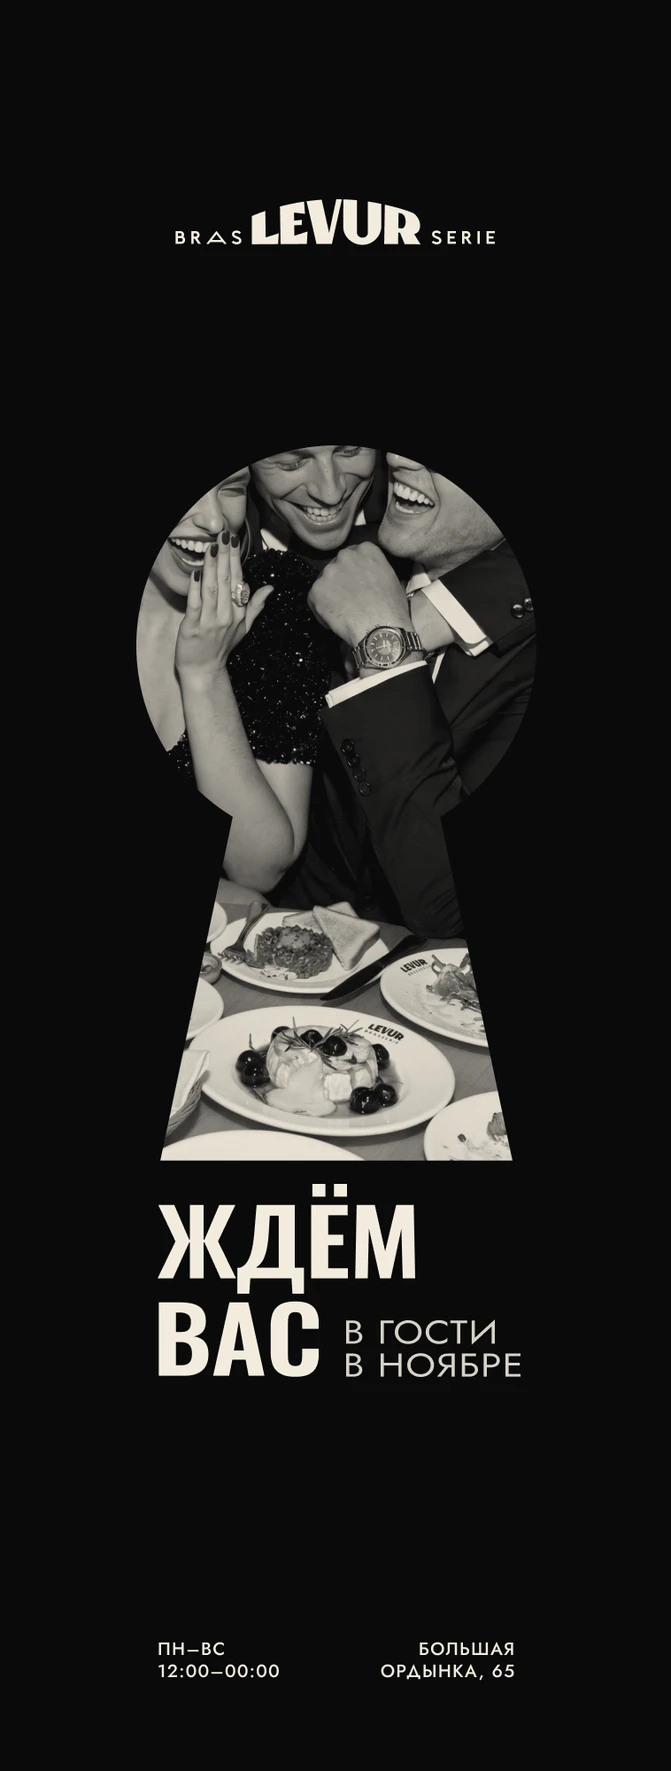
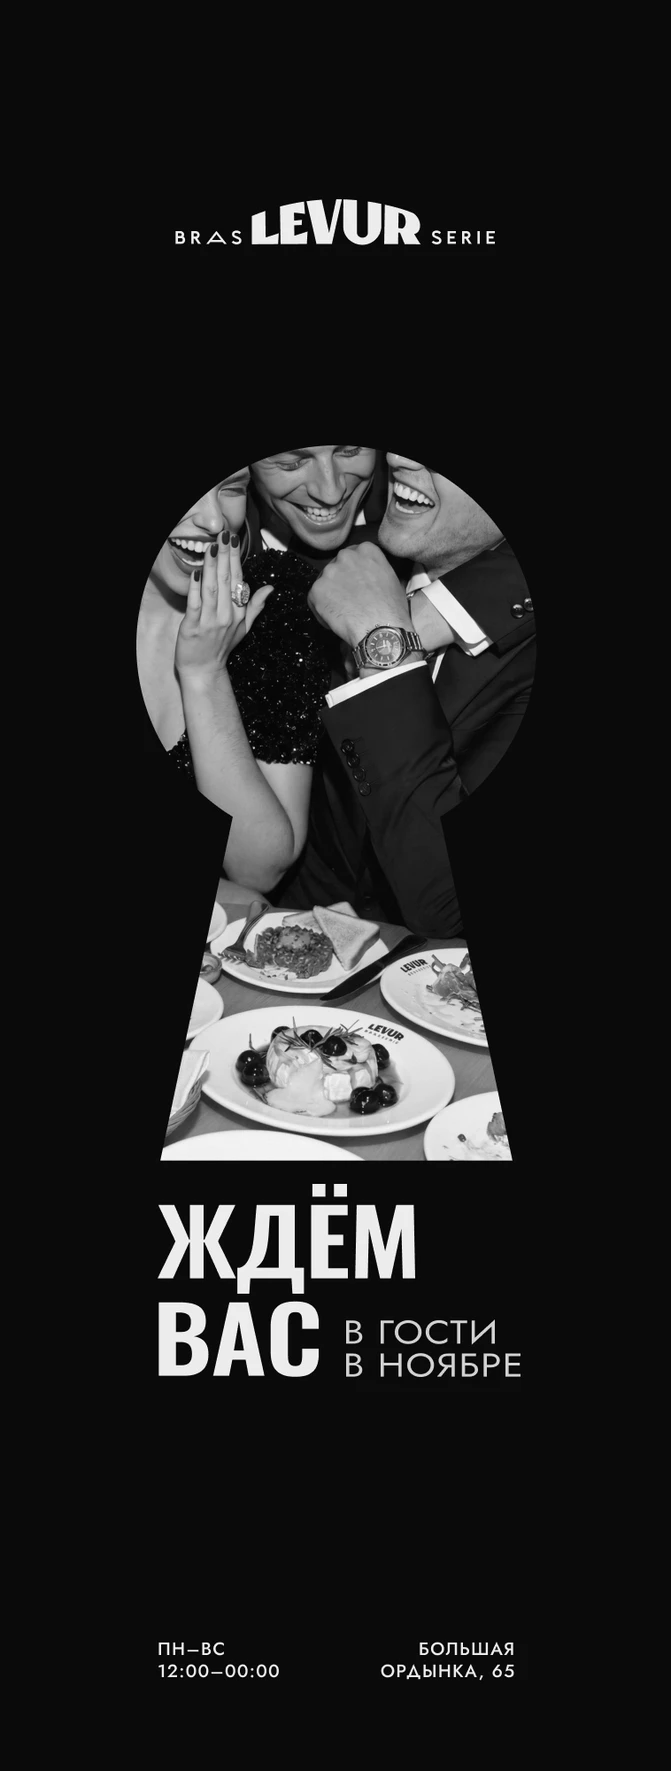
Концепция 2: гротеск первым с ЧБ фото и цветами фона, светлая антиква — один из цветов, ЧБ скважина без молочного тона

diff --git a/index.html b/index.html
@@ -171,14 +171,14 @@
           </div>
           <div class="shade"></div>
         </div></div>
-        <figcaption>Вариант 1<span class="opts" role="group" aria-label="Цвет фото"><button type="button" data-img="k1" data-src="door-3d/sticker-keyhole.webp?v=20261028i" aria-pressed="true">Цвет</button><button type="button" data-img="k1" data-src="door-3d/sticker-keyhole-bw.webp?v=20261028l" aria-pressed="false">ЧБ</button></span></figcaption>
+        <figcaption>Вариант 1<span class="opts" role="group" aria-label="Цвет фото"><button type="button" data-img="k1" data-src="door-3d/sticker-keyhole.webp?v=20261028i" aria-pressed="true">Цвет</button><button type="button" data-img="k1" data-src="door-3d/sticker-keyhole-bw.webp?v=20261028m" aria-pressed="false">ЧБ</button></span></figcaption>
       </figure>
       <figure>
         <div class="frame"><div class="view" role="button" tabindex="0" aria-label="Открыть на весь экран">
           <div class="plate">
             <div class="ly" data-depth="0.35">
               <img class="leaf" src="door-3d/door.webp" alt="">
-              <img class="sticker" id="k2" src="door-3d/sticker-poster-serif-dark.webp?v=20261028h" alt="Постер «Ждём вас» с фото в форме замочной скважины на стекле двери LEVUR">
+              <img class="sticker" id="k2" src="door-3d/sticker-poster-grotesk-light.webp?v=20261028m" alt="Постер «Ждём вас в гости в ноябре» с фото в форме замочной скважины на стекле двери LEVUR">
               <div class="sheen"></div>
             </div>
             <div class="ly" data-depth="1">
@@ -190,7 +190,7 @@
           </div>
           <div class="shade"></div>
         </div></div>
-        <figcaption>Вариант 2<span class="opts" role="group" aria-label="Вариант постера"><button type="button" id="k2dark" data-img="k2" data-src="door-3d/sticker-poster-serif-dark.webp?v=20261028h" aria-pressed="true">Антиква, чёрный</button><button type="button" data-img="k2" data-src="door-3d/sticker-poster-grotesk.webp?v=20261028g" aria-pressed="false">Гротеск</button><button type="button" data-img="k2" data-src="door-3d/sticker-poster-serif.webp?v=20261028e" aria-pressed="false">Антиква</button></span><span class="swatches" id="k2sw" role="group" aria-label="Цвет фона"><button type="button" class="swb" data-k2="black" data-src="door-3d/sticker-poster-serif-dark.webp?v=20261028h" aria-pressed="true" title="Чёрный" aria-label="Чёрный"><span style="background:#262728"></span></button><button type="button" class="swb" data-k2="green" data-src="door-3d/sticker-poster-serif-dark-green.webp?v=20261028j" aria-pressed="false" title="Оливковый" aria-label="Оливковый"><span style="background:#3b422b"></span></button><button type="button" class="swb" data-k2="wine" data-src="door-3d/sticker-poster-serif-dark-wine.webp?v=20261028j" aria-pressed="false" title="Винный" aria-label="Винный"><span style="background:#512e31"></span></button><span class="cname">Чёрный</span></span></figcaption>
+        <figcaption>Вариант 2<span class="opts" role="group" aria-label="Шрифт"><button type="button" data-k2font="grotesk" aria-pressed="true">Гротеск</button><button type="button" data-k2font="serif" aria-pressed="false">Антиква</button></span><span class="swatches" id="k2sw" role="group" aria-label="Цвет фона"><button type="button" class="swb" data-k2c="light" aria-pressed="true" title="Светлый" aria-label="Светлый"><span style="background:#eeeae2"></span></button><button type="button" class="swb" data-k2c="black" aria-pressed="false" title="Чёрный" aria-label="Чёрный"><span style="background:#262728"></span></button><button type="button" class="swb" data-k2c="green" aria-pressed="false" title="Оливковый" aria-label="Оливковый"><span style="background:#3b422b"></span></button><button type="button" class="swb" data-k2c="wine" aria-pressed="false" title="Винный" aria-label="Винный"><span style="background:#512e31"></span></button><span class="cname">Светлый</span></span></figcaption>
       </figure>
     </div>
   </section>
@@ -309,27 +309,33 @@
   colorBtns.forEach(b => b.addEventListener('click', () => { color[b.dataset.base] = b.dataset.c; paint(); }));
   logoBtns.forEach(b => b.addEventListener('click', () => { logo[b.dataset.logo] = !logo[b.dataset.logo]; paint(); }));
   // simple image swaps (Концепция 2)
-  for (const b of document.querySelectorAll('.opts button')) {
+  for (const b of document.querySelectorAll('.opts button[data-img]')) {
     new Image().src = b.dataset.src;
     b.addEventListener('click', () => {
       document.getElementById(b.dataset.img).src = b.dataset.src;
       b.parentNode.querySelectorAll('button').forEach(x => x.setAttribute('aria-pressed', String(x === b)));
     });
   }
-  // Концепция 2, вариант 2: colour of the dark antiqua poster; swatches show only while it is selected
-  const k2dark = document.getElementById('k2dark'), k2sw = document.getElementById('k2sw');
-  const k2names = { black: 'чёрный', green: 'оливковый', wine: 'винный' };
-  for (const b of k2sw.querySelectorAll('button')) {
-    new Image().src = b.dataset.src;
-    b.addEventListener('click', () => {
-      k2dark.dataset.src = b.dataset.src;
-      k2dark.textContent = 'Антиква, ' + k2names[b.dataset.k2];
-      k2sw.querySelectorAll('button').forEach(x => x.setAttribute('aria-pressed', String(x === b)));
-      k2sw.querySelector('.cname').textContent = b.title;
-      k2dark.click();
-    });
+  // Концепция 2, вариант 2: font (grotesk / antiqua) and background fill, each font keeps its own fill
+  const k2 = document.getElementById('k2'), k2sw = document.getElementById('k2sw');
+  const k2fontBtns = [...document.querySelectorAll('[data-k2font]')], k2colBtns = [...k2sw.querySelectorAll('[data-k2c]')];
+  const K2 = {
+    grotesk: { light: 'door-3d/sticker-poster-grotesk-light.webp?v=20261028m', black: 'door-3d/sticker-poster-grotesk-black.webp?v=20261028m',
+               green: 'door-3d/sticker-poster-grotesk-green.webp?v=20261028m', wine: 'door-3d/sticker-poster-grotesk-wine.webp?v=20261028m' },
+    serif: { light: 'door-3d/sticker-poster-serif.webp?v=20261028e', black: 'door-3d/sticker-poster-serif-dark.webp?v=20261028h',
+             green: 'door-3d/sticker-poster-serif-dark-green.webp?v=20261028j', wine: 'door-3d/sticker-poster-serif-dark-wine.webp?v=20261028j' },
+  };
+  const k2st = { font: 'grotesk', color: { grotesk: 'light', serif: 'black' } };
+  function k2paint() {
+    const c = k2st.color[k2st.font];
+    k2.src = K2[k2st.font][c];
+    k2fontBtns.forEach(x => x.setAttribute('aria-pressed', String(x.dataset.k2font === k2st.font)));
+    k2colBtns.forEach(x => x.setAttribute('aria-pressed', String(x.dataset.k2c === c)));
+    k2sw.querySelector('.cname').textContent = k2colBtns.find(x => x.dataset.k2c === c).title;
   }
-  k2dark.parentNode.querySelectorAll('button').forEach(b => b.addEventListener('click', () => { k2sw.hidden = b !== k2dark; }));
+  k2fontBtns.forEach(x => x.addEventListener('click', () => { k2st.font = x.dataset.k2font; k2paint(); }));
+  k2colBtns.forEach(x => x.addEventListener('click', () => { k2st.color[k2st.font] = x.dataset.k2c; k2paint(); }));
+  for (const f in K2) for (const c in K2[f]) new Image().src = K2[f][c];
   // warm the cache so switching does not flash
   // tap a door to open it full screen; tap again, × or Esc to close
   const closeBtn = document.getElementById('fsClose');
